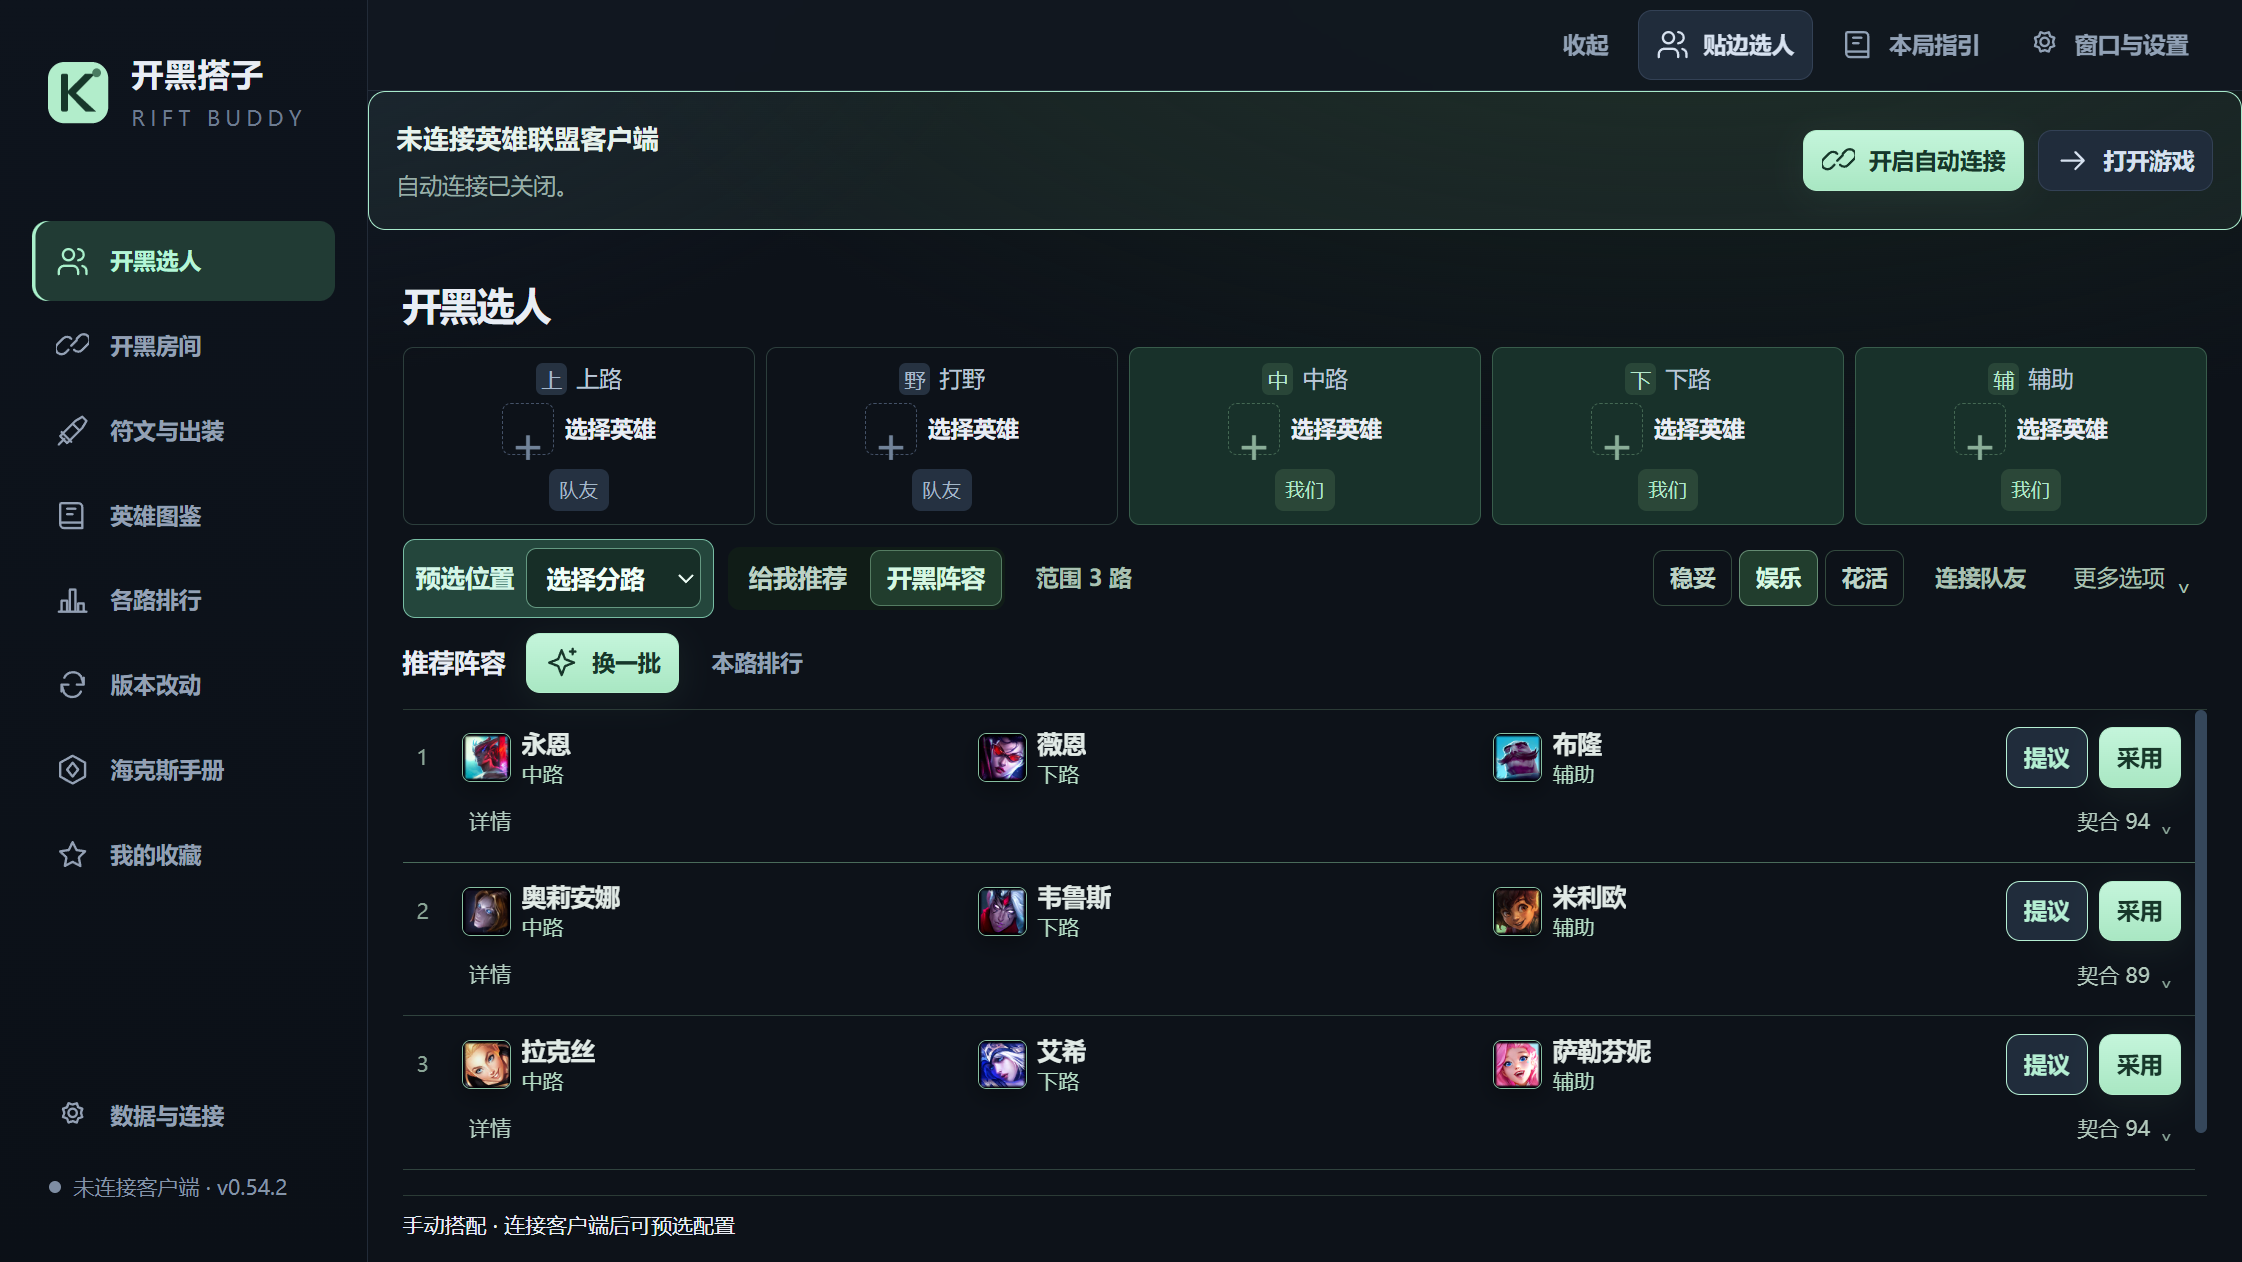
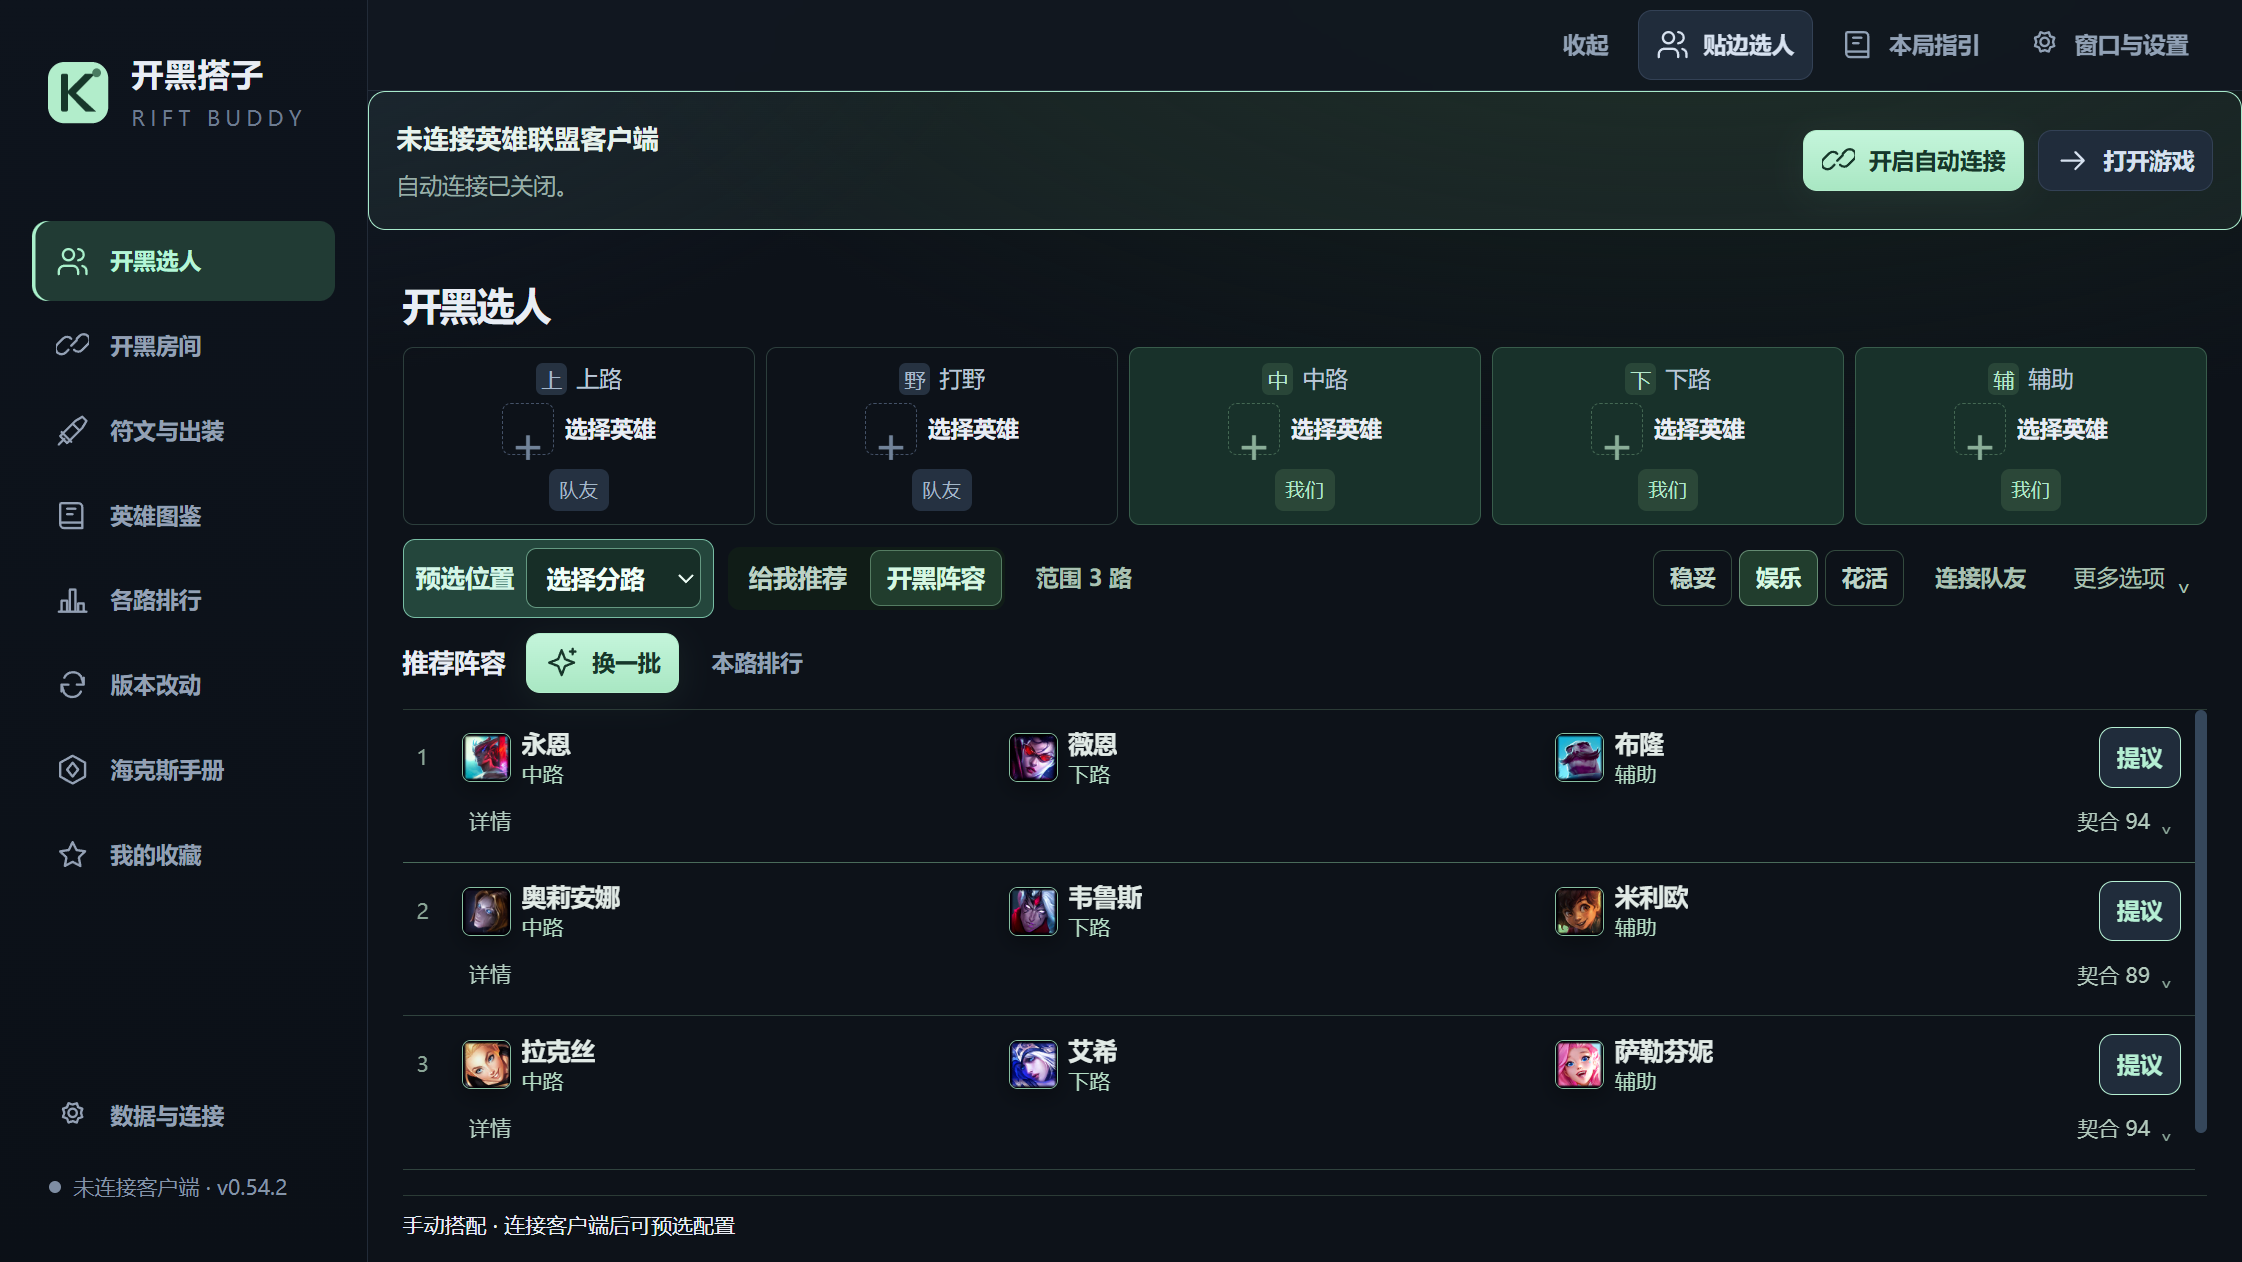
ui: align voting rows and validate the simplified selection flow

diff --git a/src/companion.css b/src/companion.css
@@ -309,17 +309,22 @@
 .ballot-row-detail{display:flex;align-items:center;justify-content:space-between;gap:8px;margin-top:5px}
 .ballot-row-detail .lineup-fit{min-width:0}
 .room-panel>.panel-head{flex-wrap:wrap}
-.room-ballot-row{width:100%;padding:8px;border:1px solid #446358;border-radius:6px;background:#1b3029;margin-top:8px}
+.room-ballot-row{width:100%;padding:8px;border:1px solid #446358;border-radius:6px;background:#1b3029;margin-top:8px;display:grid;grid-template-columns:minmax(0,1fr) auto;gap:2px 8px}
 .ballot-heroes{display:flex;align-items:center;gap:14px;min-width:0}
 .ballot-heroes>button{flex-direction:row;gap:7px;flex:1;min-width:0;text-align:left}
 .ballot-heroes>button>span{display:flex;flex-direction:column;min-width:0;align-items:flex-start}
 .ballot-heroes img{width:36px;height:36px;flex-shrink:0}
 .ballot-row-top{align-items:center;gap:8px}
 .ballot-row-top>b{width:14px;flex-shrink:0}
-.ballot-row-actions{margin-top:4px}
-.ballot-row-detail{margin:2px 0 0 22px}
+.ballot-row-top{grid-column:1;grid-row:1}
+.ballot-row-actions{grid-column:2;grid-row:1;margin:0}
+.ballot-row-actions small{display:none}
+.ballot-row-detail{grid-column:1/-1;grid-row:2;margin:2px 0 0 22px}
+.ballot-adoption{grid-column:1/-1;grid-row:3}
 .sidebar-focused .room-ballot-board{margin-inline:0}
 .sidebar-focused .ballot-heroes{gap:7px}
-.sidebar-focused .ballot-heroes>button{gap:5px;flex-direction:column;align-items:center;text-align:center}
-.sidebar-focused .ballot-heroes>button>span{align-items:center}
+.sidebar-focused .ballot-heroes>button{gap:5px;flex-direction:row;align-items:center;text-align:left}
+.sidebar-focused .ballot-heroes>button>span{align-items:flex-start}
+.ballot-heroes>button b{max-width:100%;overflow:hidden;text-overflow:ellipsis}
+@media(max-width:389px){.sidebar-focused .ballot-heroes>button{flex-direction:column;text-align:center}.sidebar-focused .ballot-heroes>button>span{align-items:center}}
 @media(prefers-reduced-motion:no-preference){.room-ballot-row{animation:proposal-arrive .16s ease-out}@keyframes proposal-arrive{from{opacity:.5;transform:translateY(-4px)}to{opacity:1;transform:none}}}
